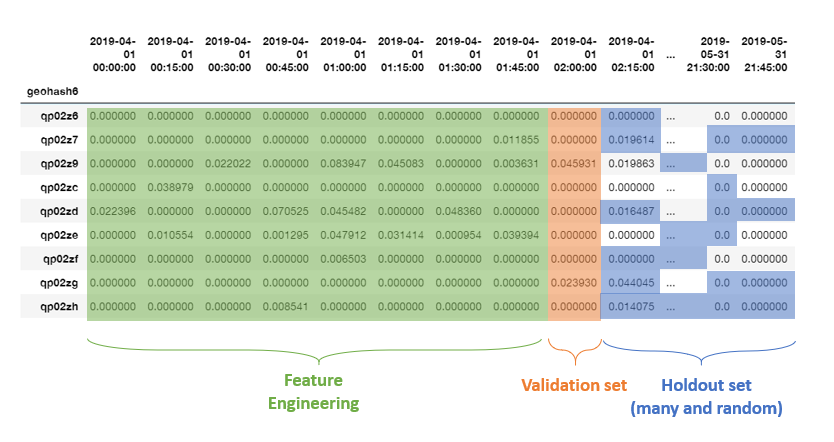
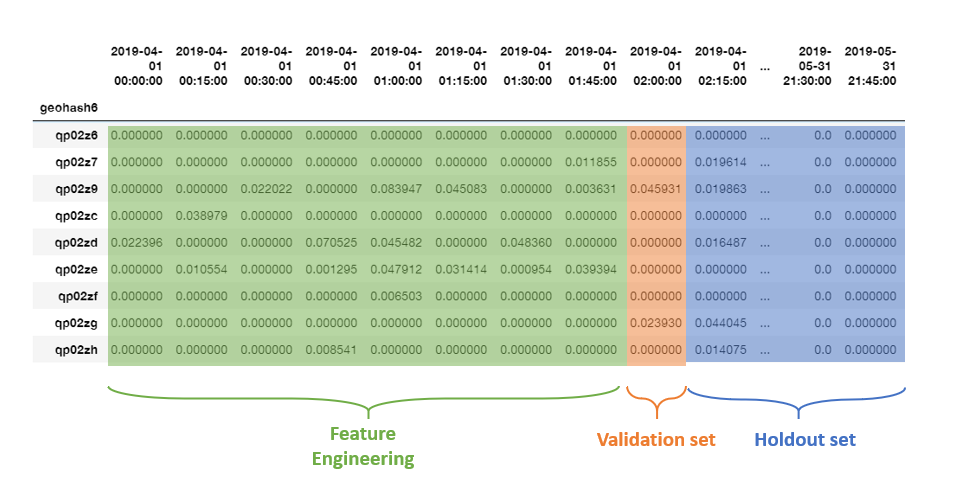
Touch up

Changed region(s): [[0.0312, 0.1765, 0.9664, 0.9412], [0.0935, 0.0588, 0.9664, 0.1765], [0.6235, 0.8529, 0.7482, 0.9118]]

diff --git a/README.md b/README.md
@@ -1,4 +1,5 @@
 # GrabAI
+
 Grab organised the Grab AI for SEA Challenges in 2019, hosting 3 different AI challenges.
 This is my submission for the first challenge - Traffic Management.
 I have included the final end-to-end jupyter notebook, initial notebooks for preprocessing, EDA, model creation, 
@@ -20,9 +21,13 @@ For Grab officials evaluating my submission, please:
   1. Setup virtualenv with required libraries beforehand using 'requirements.txt'.
   2. Place the train set (named 'training.csv') and holdout set (named 'holdout.csv'), into the folder named 'data_raw'. </br>
   Holdout set should be in the same format as train set and should have the demand values filled in (don't worry, holdout values are only used for labels, not features).
-  3. Then, run the 'Full Pipeline' jupyter notebook. This notebook will handle the entire process, from preprocessing, feature generation to demand prediction using the model. (It may take 10-20mins for the entire process).
+  3. Then, run the 'Full Pipeline' jupyter notebook. This notebook will handle the entire process, from preprocessing, feature generation to predicting using the model. (It may take 10-20mins for the entire process).
   
 At the end of the notebook execution, the overall holdout rmse will be displayed, and the predicted T+1 to T+5 values are saved as a csv file for inspection.
+
+_Note: As I am slightly confused regarding the way the holdout set is handled, and there is likely not enough time to ask and modify my code, I opted to
+assume that the holdout set contains only the T+1 -> T+5 labels. Thus, my script will read the holdout set and predict for every sample in the holdout set, 
+saving predictions as a .csv file._ 
 
 # Evaluation results
 
@@ -49,12 +54,14 @@ up to T+1 t predict T+2 and so on. This approach further boosted the holdout rms
 
 ![Feature and label extraction in Rolling forecast model](./images/extraction_rolling_forecast.png?raw=true "Feature and label extraction in Rolling forecast model")
 
-As prediction time T is not specified by Grab, and it has mentioned at the briefing in Singapore to expect the holdout set to be similar to the training set given
-(I assume this means in distribution of NaN and non-NaN values), I assumed that T would be random and multiple for every location and altered the approach accordingly.
-This also gives us a good spread of prediction times similar to a practical scenario.
-
-![Validation vs holdout set](./images/extraction_val_holdout.png?raw=true "Validation vs holdout set")
-
 The prediction results are as follows:
 
 ![RMSE scores](./images/rmse_val.png?raw=true "RMSE scores")
+
+# Further Improvements:
+
+Initially, I also used aggregated features by grouping the dataset according the cluster ids/lat/long I had previously generated during Geo_EDA,
+which improved rmse by about 0.005 - 0.01. However, it worsened computation time significantly, so I have removed it for this competition.
+
+Also, I built a basic lstm model, using the transformed dataset. It also achieved an rmse of about 0.032, possibly validating this LGBM model.
+Given more time, perhaps I could have built an ensemble regressor which should outperform individual regressors.
